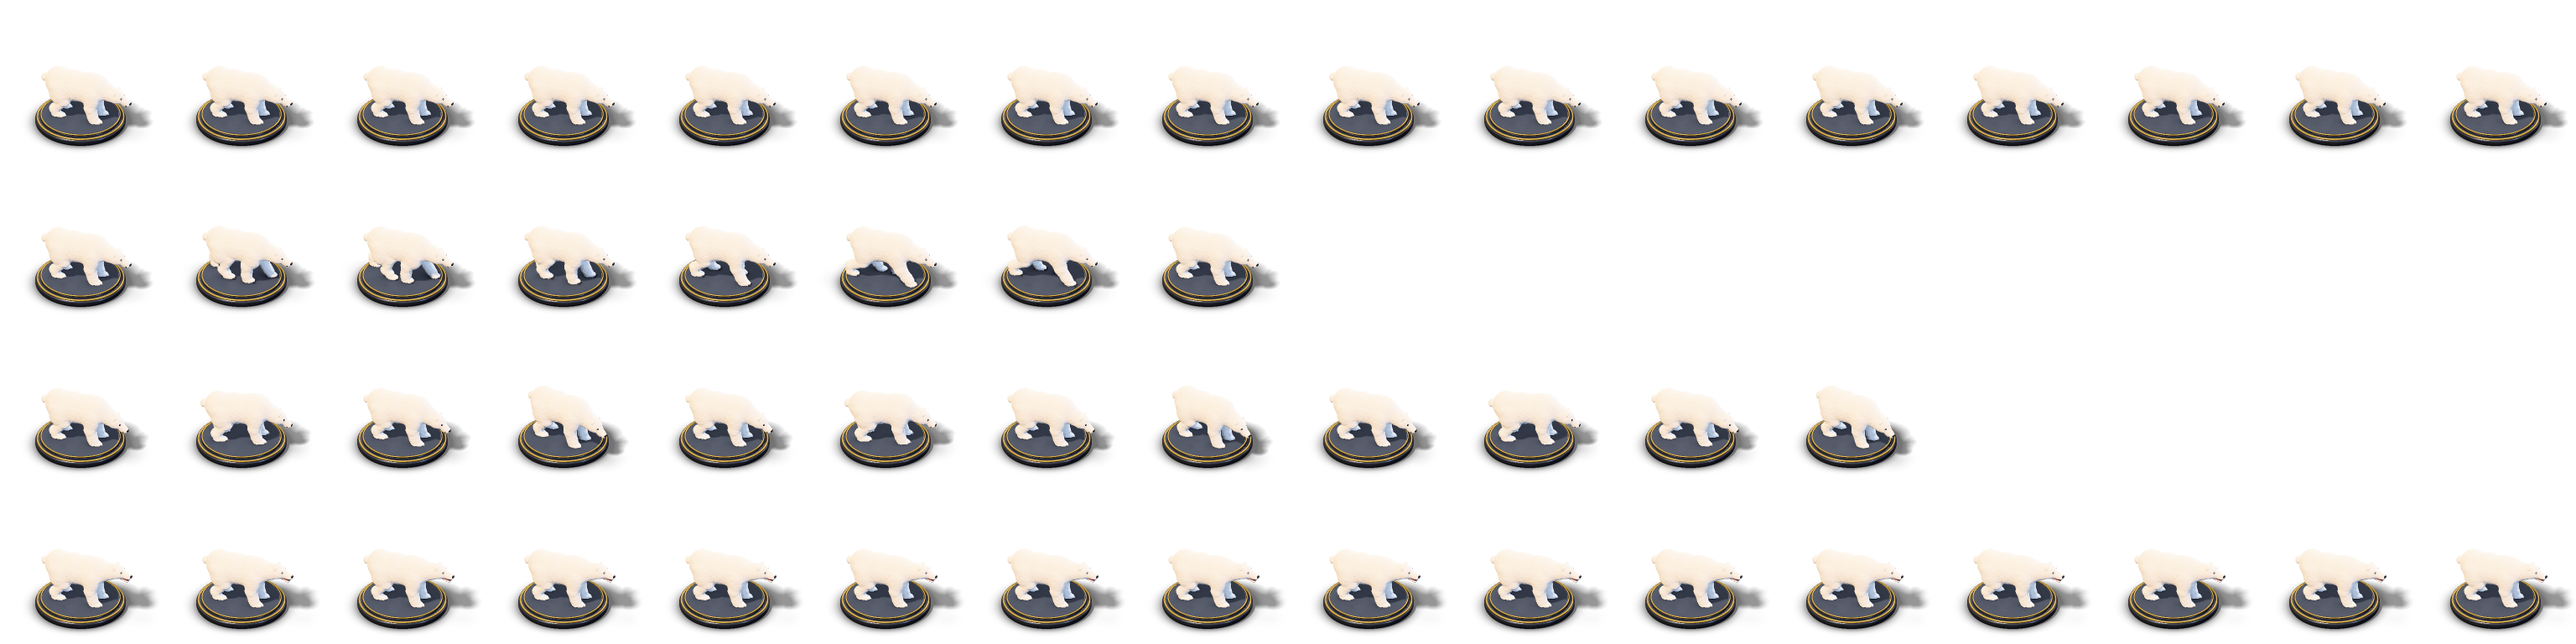
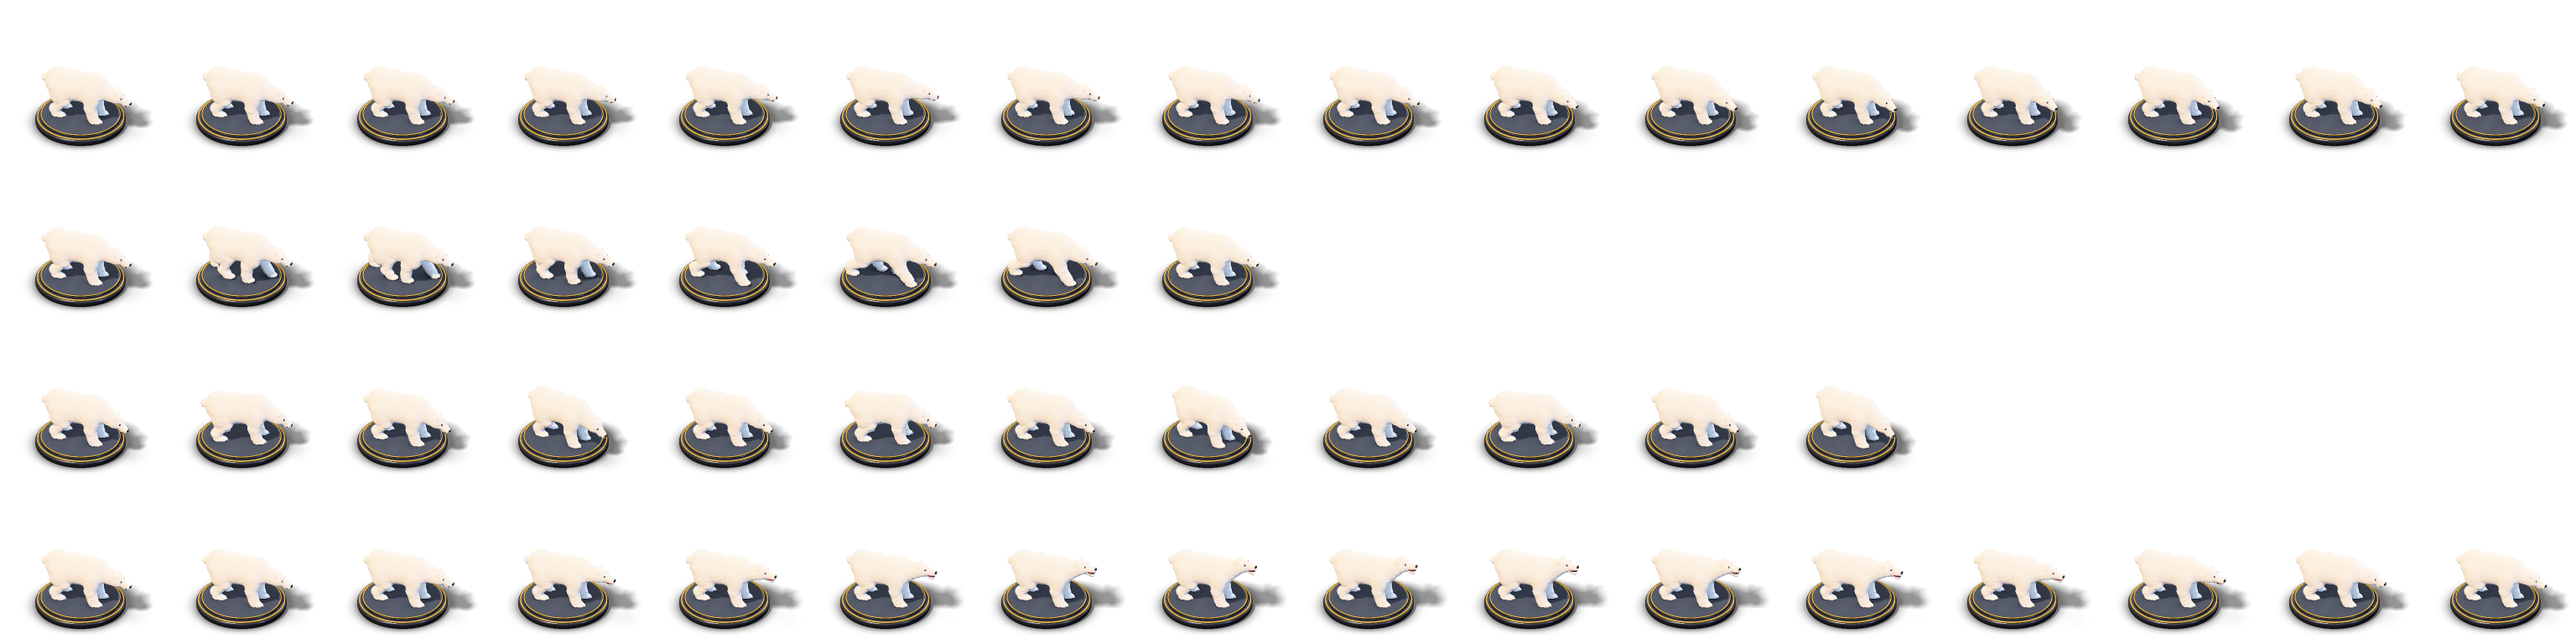
polar bear figurine: animated idle (breathing, the head swaying and sniffing) and win (the roar opens and closes: head up, jaw down) instead of fixed poses; sprites rebuilt, loops checked

diff --git a/app/tools/sprites/arctic.py b/app/tools/sprites/arctic.py
@@ -483,7 +483,10 @@ def polar_bear(anim, t, side):
     sc = Scene()
     base(sc, side)
     (fl, fr, hl, hr), bob = gait(anim, t)
-    X = frame_of(anim, t, bob)
+    # idle (1.6 s loop): breathing (the body rises a little), the head swaying
+    # slowly from side to side and sniffing (two small nods per loop)
+    breath = 0.004 * (0.5 - 0.5 * math.cos(TAU * t)) if anim == "idle" else 0.0
+    X = frame_of(anim, t, bob + breath)
     m = pelt("#f0e8d6", "#e0d2b8", k=80, spread=0.22)
     amp, k = 0.007, 55.0
     trunk = [(-0.2, 0.31, 0.11, 0.12, 0.11), (-0.06, 0.29, 0.13, 0.13, 0.14), (0.08, 0.29, 0.125, 0.135, 0.12), (0.16, 0.32, 0.1, 0.1, 0.08)]
@@ -500,14 +503,19 @@ def polar_bear(anim, t, side):
         limb(sc, m, X, pts, [0.06, 0.045, 0.036, 0.036], amp, k, 0.025)
         paw(sc, m, X, (pts[-1][0], 0.02, pts[-1][2] + 0.03), 0.042, 5, claw)
     sc.add(furry(sd_sphere(0.03), amp, k), m, X * T(0, 0.32, -0.32), blend=0.03)                                     # the tail
-    roar = anim == "win"
+    # win (1.33 s loop): the roar opens and closes once, r from 0 to 1 and back
+    # (the head rises, the jaw drops, the teeth show); blocked: the head low
+    r = 0.5 - 0.5 * math.cos(TAU * t) if anim == "win" else 0.0
+    roar = r > 0.25
     low = 0.2 if anim == "blocked" else 0.0
-    nk = X * T(0, 0.31, 0.17) * RX(0.15 - (0.5 if roar else 0.0) + low)
+    sway = 0.35 * math.sin(TAU * t) if anim == "idle" else 0.0
+    sniff = 0.1 * math.sin(2 * TAU * t) if anim == "idle" else 0.0
+    nk = X * T(0, 0.31, 0.17) * RY(sway) * RX(0.15 - 0.9 * r + low + sniff)
     sc.add(furry(sd_capsule((0, 0, 0), (0, -0.02, 0.15), 0.085, 0.06), amp, k), m, nk, blend=0.05)
-    hd = nk * T(0, -0.02, 0.17) * RX(0.15 + (0.35 if roar else 0.0))
+    hd = nk * T(0, -0.02, 0.17) * RX(0.15 + 0.45 * r - sniff)
     sc.add(furry(sd_ellipsoid(0.055, 0.055, 0.065), amp * 0.7, k), m, hd, blend=0.03)
     sc.add(furry(sd_capsule((0, -0.005, 0.03), (0, -0.018, 0.11), 0.038, 0.024), amp * 0.4, k), m, hd, blend=0.02)       # the long muzzle
-    gape = 0.3 if roar else 0.0
+    gape = 0.5 * r
     jaw = hd * T(0, -0.03, 0.03) * RX(gape)
     sc.add(sd_capsule((0, 0, 0), (0, -0.008, 0.075), 0.025, 0.017), m, jaw, blend=0.012)
     if roar:
